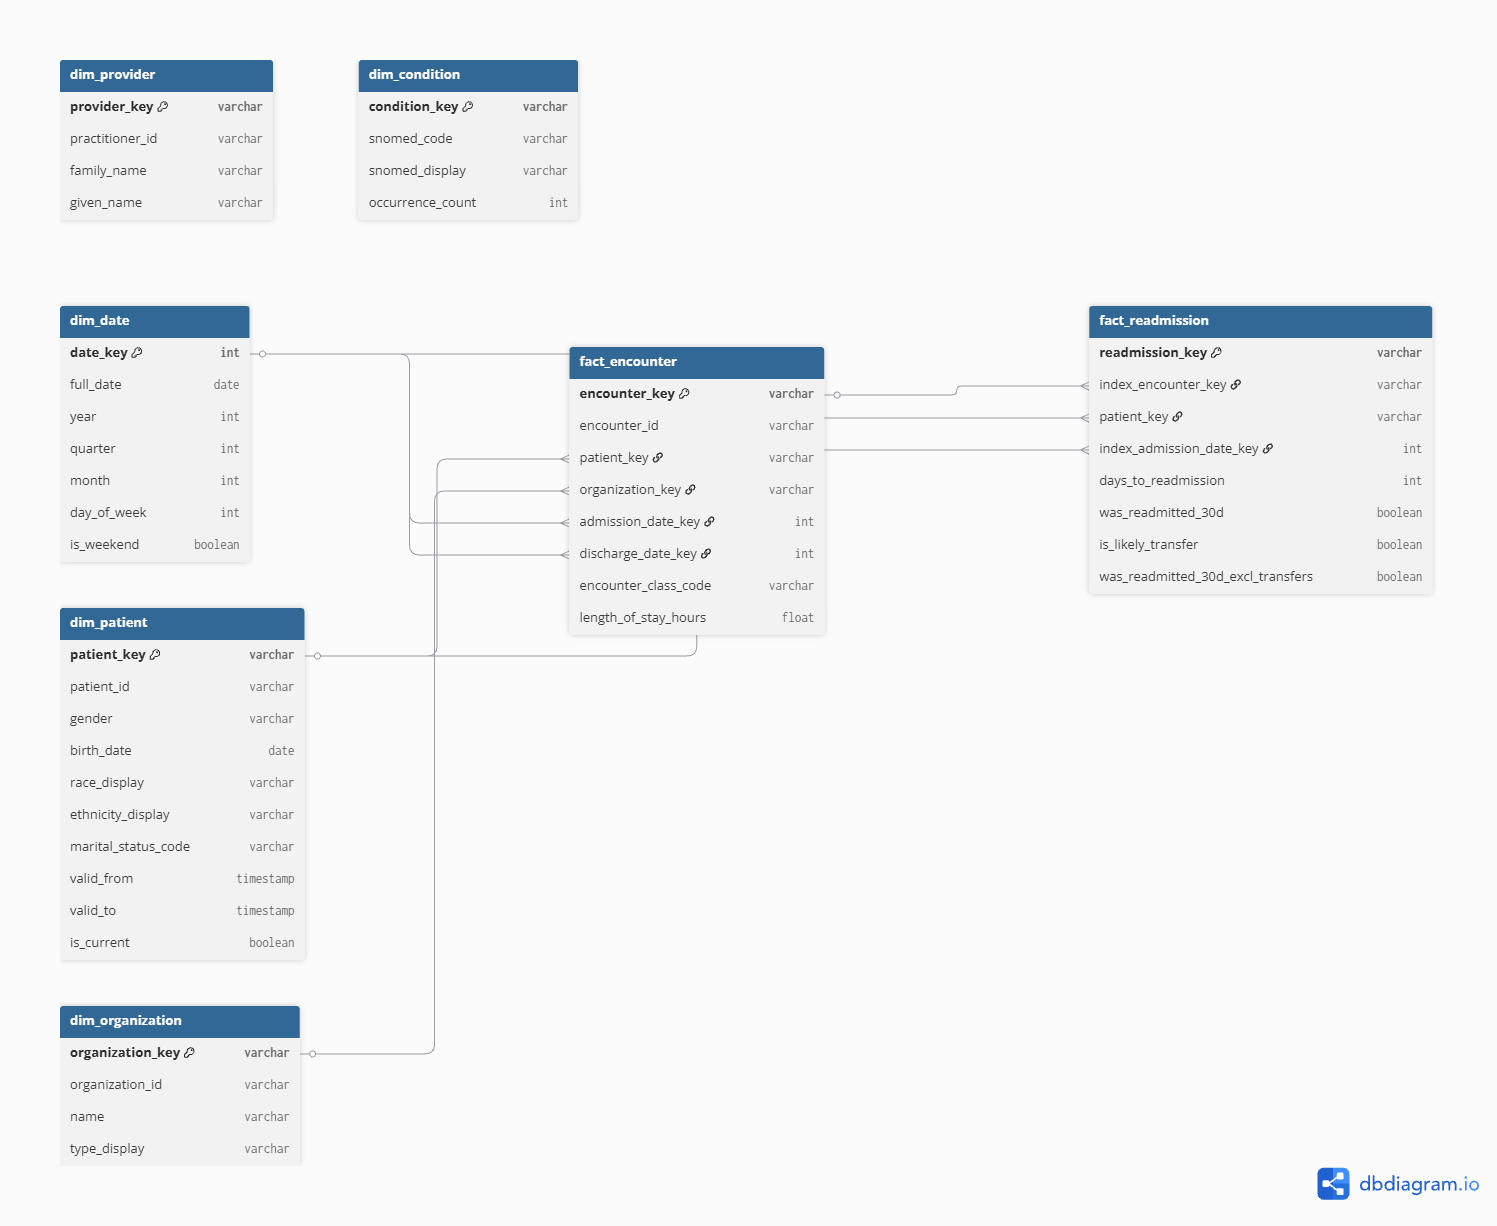
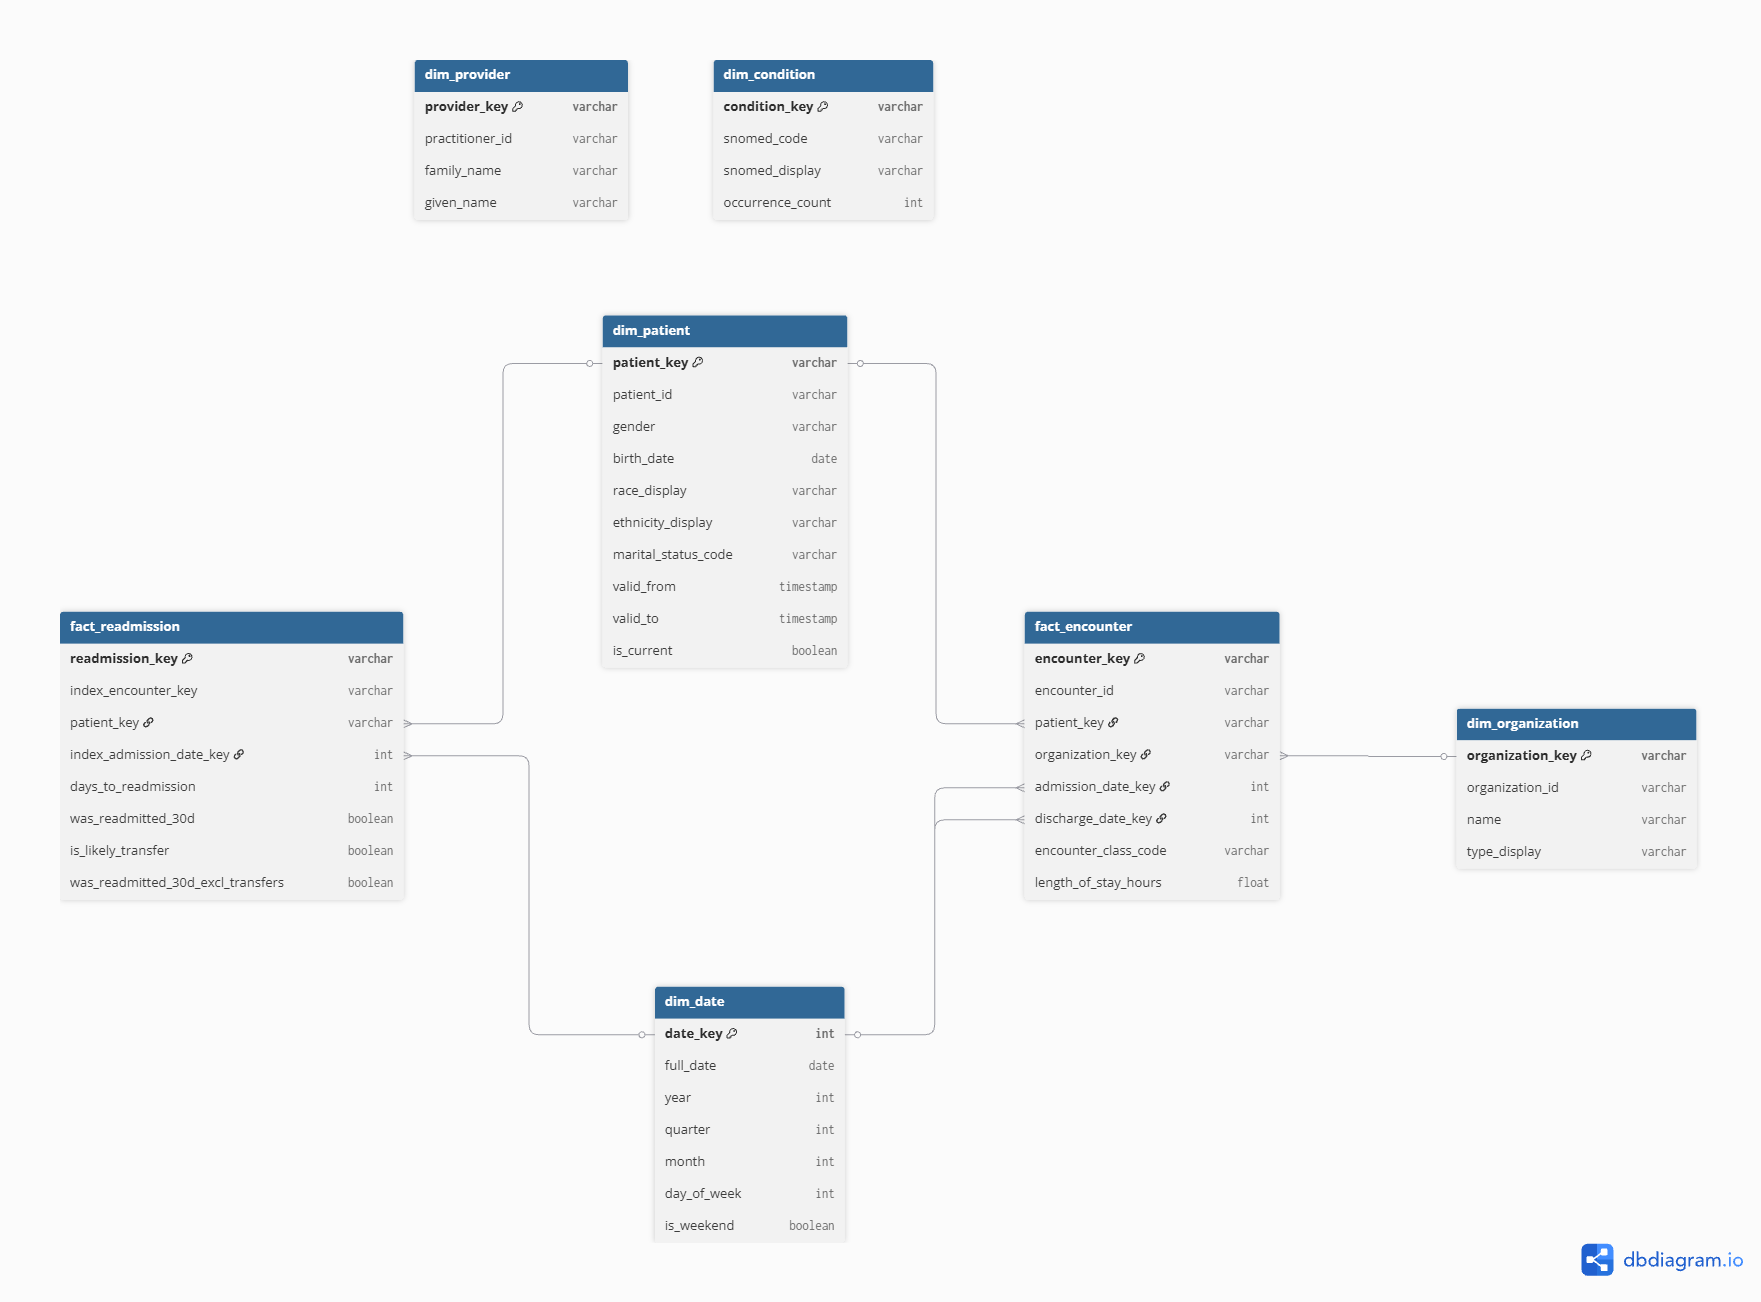
created README, updated some files

diff --git a/src/readmission_lakehouse/silver/resources.py b/src/readmission_lakehouse/silver/resources.py
@@ -1,8 +1,7 @@
 """Catalogue of bronze→silver-valid validations.
 
 Maps each bronze table to its Pydantic contract. The 6 entities with Phase 2
-contracts get full validation; Observation and MedicationRequest are deferred
-(see docs/decisions.md for the contract-coverage gap).
+contracts get full validation; Observation and MedicationRequest are deferred.
 """
 
 from dataclasses import dataclass

diff --git a/README.md b/README.md
@@ -1,53 +1,187 @@
-# Readmission Lakehouse
+# Readmission Lakehouse — End-to-End Data Engineering on Azure
 
-## Business Problem
+> A production-style data engineering platform on a Databricks lakehouse: it ingests FHIR clinical records through a governed medallion pipeline, models them into a tested dimensional warehouse, orchestrates the run with Airflow, and serves the result through a Power BI dashboard and a deployed, zero-secrets AI agent. The use case — 30-day hospital readmission risk — stands in for any "predict and explain a costly repeat event" problem (churn, fraud, failure).
 
-<!-- One-line placeholder: describe the hospital readmission analytics problem this project addresses. -->
+[![CI](https://github.com/ibralhindi/readmission-lakehouse/actions/workflows/ci.yml/badge.svg)](https://github.com/ibralhindi/readmission-lakehouse/actions/workflows/ci.yml)
+![License: MIT](https://img.shields.io/badge/License-MIT-blue.svg)
+
+As a concrete end-to-end result, the platform computes a **13.64%** 30-day readmission rate across **12,689 index admissions** (transfer-excluded; 19.28% raw). These are presented in a Power BI dashboard, screenshot included below.
+
+**Live agent demo:** [Open the live agent](https://rl-agent-dev.greendune-bd3f68cb.australiaeast.azurecontainerapps.io/) — public, runs on synthetic data, scales to zero so the first request may cold-start for ~30–60s.
+
+---
+
+## Contents
+  - [The problem](#the-problem)
+  - [What it does](#what-it-does)
+  - [Architecture](#architecture)
+  - [Results](#results)
+  - [Tech stack](#tech-stack)
+  - [Engineering highlights](#engineering-highlights)
+  - [The AI agent](#the-ai-agent)
+  - [Dashboard](#dashboard)
+  - [Running it locally](#running-it-locally)
+  - [Scope, limitations & production roadmap](#scope-limitations--production-roadmap)
+  - [Built with AI assistance](#built-with-ai-assistance)
+  - [License](#license)
+
+---
+
+## The problem
+
+Unplanned 30-day hospital readmissions are expensive and, in many health systems, financially penalized. In the US, the CMS Hospital Readmissions Reduction Program docks payments for excess readmissions. The analytical question is: *given an admission's history and context, how likely is the patient to come back within 30 days, and what's driving that risk?*
+
+That question is a specific instance of a pattern that recurs across almost every industry: **predicting and explaining a costly repeat-event from an entity's history.** Swap the nouns and the pipeline is the same shape.
+
+| This project | Generalizes to |
+|---|---|
+| patient → readmission | customer → churn |
+| admission history | transaction / usage history |
+| risk drivers | churn / fraud / failure drivers |
+
+The project is framed in healthcare, but the engineering — contract-validated ingestion, a governed dimensional model, an event-windowing fact table, orchestration, and an explanation layer — transfers directly to any domain built on entity event-histories.
+
+## What it does
+
+- **Ingests** raw FHIR R4 clinical records and lands them through a **medallion architecture** (bronze → silver → gold) on Azure Data Lake Storage and Delta Lake.
+- **Validates** records against **data contracts** (Pydantic models of the FHIR resources), quarantining anything that fails rather than letting it corrupt downstream tables.
+- **Models** a **star schema** with conformed dimensions and **SCD2 history** on the dimensions that change over time.
+- **Computes** the 30-day readmission fact, including transfer-exclusion logic so inter-facility transfers aren't miscounted as readmissions.
+- **Orchestrates** the pipeline end-to-end with **Apache Airflow**.
+- **Provisions** all cloud infrastructure with **Terraform** and governs data access with **Unity Catalog**.
+- **Serves** insight two ways: a **Power BI** dashboard for analysts, and an **agentic RAG assistant** that drafts a structured readmission-risk brief for any patient.
+- **Ships** through **CI/CD** (GitHub Actions) and a **containerized, zero-secrets deployment**. The agent runs in Azure Container Apps under a managed identity that reads every secret from Key Vault, so nothing sensitive lives in the image, the repo, or the container's environment.
 
 ## Architecture
 
-<!-- Placeholder: architecture diagram (medallion, Kimball gold layer, Azure services). -->
+```mermaid
+flowchart LR
+    S[Synthea FHIR R4<br/>10k patients] --> RAW[(ADLS Gen2<br/>raw)]
+    RAW --> B[Bronze<br/>PySpark ingest]
+    B --> SV[Silver<br/>Pydantic contracts<br/>+ dbt]
+    SV --> G[Gold<br/>dbt star schema<br/>SCD2 dimensions]
+    G --> PBI[Power BI dashboard]
+    G --> AG[RAG agent<br/>LangGraph + Chroma]
 
-## Tech Stack
+    AF[Airflow] -. orchestrates .-> B
+    AF -. orchestrates .-> SV
+    AF -. orchestrates .-> G
+    TF[Terraform + Unity Catalog] -. provisions & governs .-> RAW
+```
 
-<!-- One-line placeholder: Databricks, dbt, Airflow, Terraform, Power BI, etc. -->
+The dimensional model:
 
-## Repository Layout
+![Star schema](docs/Star_Schema.png)
 
-<!-- One-line placeholder: brief map of top-level folders. -->
+Data flows from synthetic FHIR records into raw storage, through PySpark bronze ingestion, into a contract-validated silver layer, and finally into a dbt-built gold star schema that both the dashboard and the agent read from. Airflow orchestrates the run; Terraform provisions every resource; Unity Catalog governs catalogs, schemas, and external locations.
 
-## Local Development
+## Results
 
-<!-- One-line placeholder: uv, Makefile targets, env setup. -->
+| Metric | Value |
+|---|---|
+| Index admissions | 12,689 |
+| 30-day readmissions | 1,731 |
+| **Readmission rate (transfer-excluded)** | **13.64%** |
+| Readmission rate (raw, for comparison) | 19.28% |
+| `fact_encounter` rows | 664,623 |
+| dbt build | 15 models · 3 snapshots · 69 tests — all passing |
 
-## Running the Pipeline
+The ~5.6-point gap between the raw and transfer-excluded rates is itself a finding: naively counting any subsequent admission as a readmission materially overstates the rate, because inter-facility transfers look like rapid readmissions but aren't. The transfer-exclusion logic in `fact_readmission` is what makes the headline number trustworthy.
 
-<!-- One-line placeholder: how bronze → silver → gold runs (local vs cloud). -->
+## Tech stack
 
-## Data Model
+| Layer | Tools |
+|---|---|
+| Language & tooling | Python 3.12, uv, ruff, mypy, pre-commit |
+| Source data | Synthea (FHIR R4), 10,000 synthetic patients, seed = 42 |
+| Storage & processing | Azure Data Lake Storage Gen2, Delta Lake, Databricks (DBR 17.3), PySpark 3.5 |
+| Validation | Pydantic data contracts |
+| Transformation | dbt (dbt-databricks) — silver + gold models, snapshots, tests |
+| Orchestration | Apache Airflow 3.2 (local Docker) |
+| Infrastructure & governance | Terraform (azurerm), Unity Catalog |
+| AI / RAG | LangGraph, LangChain, Chroma, OpenAI (`text-embedding-3-small`, `gpt-4o-mini`) |
+| Serving | Streamlit, Azure Container Registry, Azure Container Apps |
+| BI | Power BI Desktop |
+| CI/CD | GitHub Actions |
 
-<!-- One-line placeholder: star schema / fact & dimension overview. -->
+## Engineering highlights
 
-## RAG Service
+A few decisions worth calling out, with the reasoning behind them:
 
-<!-- One-line placeholder: guidelines ingestion and retrieval. -->
+- **Medallion architecture with enforced contracts.** Bronze preserves raw fidelity; silver validates each record against a Pydantic model of the FHIR resource and quarantines failures with a reason, so a malformed record degrades one row instead of poisoning the table. Validation exceptions are caught narrowly (`ValidationError`) so genuine bugs fail fast rather than being silently quarantined.
+- **Point-in-time correctness via SCD2 as-of joins.** Patient, organization, and practitioner dimensions capture history through dbt snapshots. `fact_encounter` joins each encounter to the **patient-dimension version valid at admission time** (an as-of join on the SCD2 validity window) so a fact sees the dimension as it was when the event happened, not as it is now. The stable organization reference uses a current-version join: a deliberate mixed pattern (as-of where history matters, current for stable references). The practitioner join is deferred, since encounters reference practitioners by NPI rather than resource id.
+- **Transfer-aware readmission logic.** The readmission fact excludes inter-facility transfers, which would otherwise inflate the rate — the difference between a defensible 13.64% and a misleading 19.28%.
+- **Tested transformations.** 69 dbt tests (uniqueness, not-null, referential integrity, accepted values) plus a Python unit suite gate the pipeline; CI runs `dbt parse` offline so model validity is checked without warehouse credentials.
+- **Everything as code.** All Azure and Databricks resources are provisioned with modular Terraform; Unity Catalog governs data access through storage credentials and external locations rather than account keys.
+- **Zero-secrets deployment.** The agent is containerized and deployed to Azure Container Apps under a **user-assigned managed identity**. `DefaultAzureCredential` resolves to that identity in the cloud (and to a developer login locally — the same code path), pulls the image from a private registry (AcrPull), and reads the OpenAI key and Databricks service-principal secret from Key Vault (Key Vault Secrets User). No secret exists in the image, the repository, or the container's environment.
+- **CI/CD and security scanning.** GitHub Actions runs lint, type-checks, tests, and `dbt parse` on every push, with a separate Terraform `fmt`/`validate` job; the git history was scanned for leaked secrets before publishing.
+
+## The AI agent
+
+The agent answers a practical question a care manager would ask: *"What should I know about this patient's readmission risk?"*
+
+It's a genuine **tool-calling agent** built with LangGraph. The model is given tools and a goal, decides which to call, formulates its own search queries, retrieves again if a pass is thin, and decides when it has enough to write. Control flow is model-directed, not a fixed pipeline. It's framed as **decision support**: it suggests, a human clinician decides. Its three tools:
+
+1. **Patient profile** — the structured facts from the **gold** layer via the Databricks SQL warehouse: demographics, the latest inpatient index admission, length of stay, and the 30-day readmission outcome. (Diagnoses and clinical detail deliberately aren't here; they live in the notes, retrieved below.)
+2. **Clinical-note search** — semantic search over the patient's own clinical notes (FHIR `DocumentReference` text), embedded into a **Chroma** vector store with OpenAI `text-embedding-3-small`.
+3. **Guideline search** — semantic search over a small library of evidence-based intervention guidelines.
+
+It then drafts a structured, grounded brief with `gpt-4o-mini`, citing the guideline titles it draws on rather than free-associating. The agent is served through a Streamlit UI and deployed to Azure Container Apps; patient identifiers are validated as UUIDs before they touch any query.
+
+![Agent](docs/agent_screenshot.png)
 
 ## Dashboard
 
-<!-- One-line placeholder: Power BI / reporting entry points. -->
+![Power BI dashboard](docs/PowerBI_Dashboard_Screenshot.png)
 
-## CI/CD
-![CI](https://github.com/ibralhindi/readmission-lakehouse/actions/workflows/ci.yml/badge.svg)
-<!-- One-line placeholder: GitHub Actions and deployment stages. -->
+An Import-mode Power BI dashboard over the gold star schema: the headline readmission rate, breakdowns by patient and clinical attributes, and the drivers behind the risk.
 
-## Cost
+## Running it locally
 
-<!-- One-line placeholder: rough Azure cost considerations. -->
+**Prerequisites:** Python 3.12, [uv](https://docs.astral.sh/uv/), Docker, an Azure subscription, a Databricks workspace, and an OpenAI API key.
 
-## Lessons Learned
+```bash
+# 1. install dependencies
+uv sync --all-groups
 
-<!-- One-line placeholder: what you would do differently next time. -->
+# 2. provision infrastructure (review the plan first)
+cd terraform/environments/dev
+terraform init
+terraform apply -var-file=terraform.tfvars
 
-## Roadmap
+# 3. run the pipeline transformations
+cd ../../../dbt
+dbt build            # builds silver + gold, runs all tests
 
-<!-- One-line placeholder: next milestones. -->
+# 4. build the agent's vector store, then run the agent
+python -m readmission_lakehouse.agent.corpus     # generates the local .chroma vector store
+uv run --group rag streamlit run src/readmission_lakehouse/agent/app.py
+```
+
+> **Note:** the agent's vector store (`.chroma/`) is generated locally and is not committed. Run the corpus build step above before building the container image, which bakes it in.
+
+Secrets are never read from the repo: locally the agent authenticates to Key Vault via your `az login` session; in the cloud it uses its managed identity. Non-secret identifiers (warehouse host/path, catalog) come from environment variables with sensible defaults.
+
+## Scope, limitations & production roadmap
+
+This is a portfolio project deliberately scoped to a single environment and a tractable dataset. The trade-offs below were intentional; the right-hand column is what a production build would add.
+
+| Deliberate scope here | Production would add |
+|---|---|
+| Single (`dev`) environment with identifiers in config | Multi-environment promotion via Terraform workspaces, dbt/bundle targets, and Airflow Variables/Connections |
+| Data contracts on the clinical entities on the readmission critical path; `Observation`/`MedicationRequest` pass through with schema-on-read | Full contract coverage with explicit quarantine for every entity |
+| Practitioner dimension join deferred (encounters reference practitioners by NPI, not resource id) | NPI extraction on both sides to wire up `dim_provider` |
+| Synthetic, copyright-free clinical-guideline summaries as the RAG corpus | Integration of licensed, citable guideline sources |
+| Vector store baked into the image / regenerated from the corpus builder | Vector store served from managed storage and refreshed on a schedule |
+| Public, unauthenticated demo endpoint | Entra ID (EasyAuth) authentication and per-user rate limits |
+| Descriptive readmission analytics | A trained predictive model with monitoring and feature lineage |
+
+Naming these isn't an admission of gaps so much as a map of the boundary between "demonstrate the engineering" and "operate a production system."
+
+## Built with AI assistance
+
+This project was built with AI pair-programming (Claude and Cursor). The architecture decisions, the core logic, and the engineering judgment are my own; the AI accelerated the parts that are well-trodden and surfaced things to verify rather than guess.
+
+## License
+
+[MIT](LICENSE)